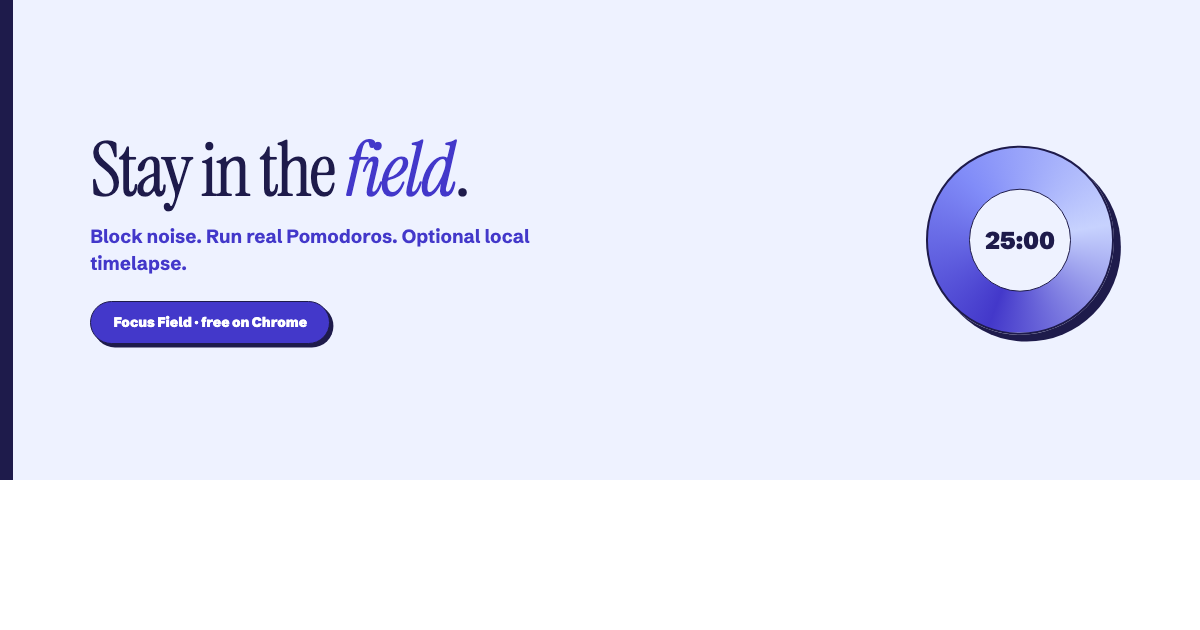
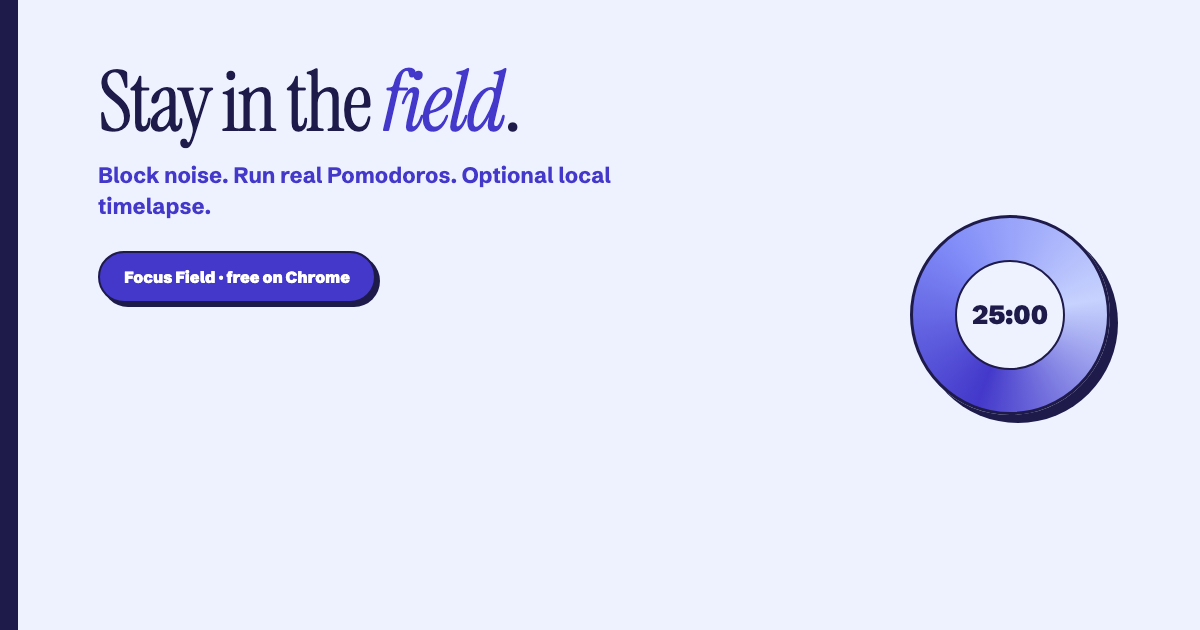
Fix small promo and OG assets with native-size layouts.
Stop scaling marquees into 440x280 (empty whitespace). Dedicated promo-small and OG frames fill the canvas.

Changed region(s): [[0.0617, 0.0905, 0.5242, 0.573], [0.74, 0.2111, 0.9558, 0.6937], [0.0, 0.0, 0.0308, 1.0]]

diff --git a/store-assets/src/promo-small.html b/store-assets/src/promo-small.html
@@ -1,0 +1,44 @@
+<!doctype html>
+<html><head><meta charset="utf-8">
+<link href="https://fonts.googleapis.com/css2?family=Instrument+Serif:ital@0;1&family=Schibsted+Grotesk:wght@700;800;900&display=swap" rel="stylesheet">
+<style>
+  *{margin:0;padding:0;box-sizing:border-box}
+  html,body{width:440px;height:280px;overflow:hidden;font-family:"Schibsted Grotesk",system-ui,sans-serif}
+  .wrap{
+    width:440px;height:280px;background:#eef2ff;
+    border-left:10px solid #1e1b4b;padding:22px 20px 20px 24px;
+    display:flex;flex-direction:column;position:relative;
+  }
+  h1{
+    font-family:"Instrument Serif",Georgia,serif;font-weight:400;
+    font-size:36px;line-height:.95;letter-spacing:-.03em;color:#1e1b4b;
+    max-width:260px;
+  }
+  h1 em{font-style:italic;color:#4338ca}
+  p{margin-top:10px;font-size:13px;font-weight:600;color:#4338ca;line-height:1.35;max-width:220px}
+  .pill{
+    margin-top:auto;align-self:flex-start;background:#4338ca;color:#fff;
+    border:2px solid #1e1b4b;border-radius:999px;padding:9px 14px;
+    font-weight:900;font-size:11px;box-shadow:3px 3px 0 #1e1b4b;
+  }
+  .orb{
+    position:absolute;right:18px;top:50%;transform:translateY(-50%);
+    width:96px;height:96px;border-radius:50%;
+    background:conic-gradient(from 200deg,#4338ca,#818cf8,#c7d2fe,#4338ca);
+    border:2.5px solid #1e1b4b;box-shadow:4px 4px 0 #1e1b4b;
+    display:grid;place-items:center;
+  }
+  .orb span{
+    width:54px;height:54px;border-radius:50%;background:#eef2ff;
+    border:2px solid #1e1b4b;display:grid;place-items:center;
+    font-weight:900;font-size:13px;color:#1e1b4b;
+  }
+</style></head>
+<body>
+<div class="wrap">
+  <h1>Stay in the <em>field</em>.</h1>
+  <p>Block noise. Run Pomodoros. Local only.</p>
+  <div class="pill">Focus Field</div>
+  <div class="orb"><span>25:00</span></div>
+</div>
+</body></html>